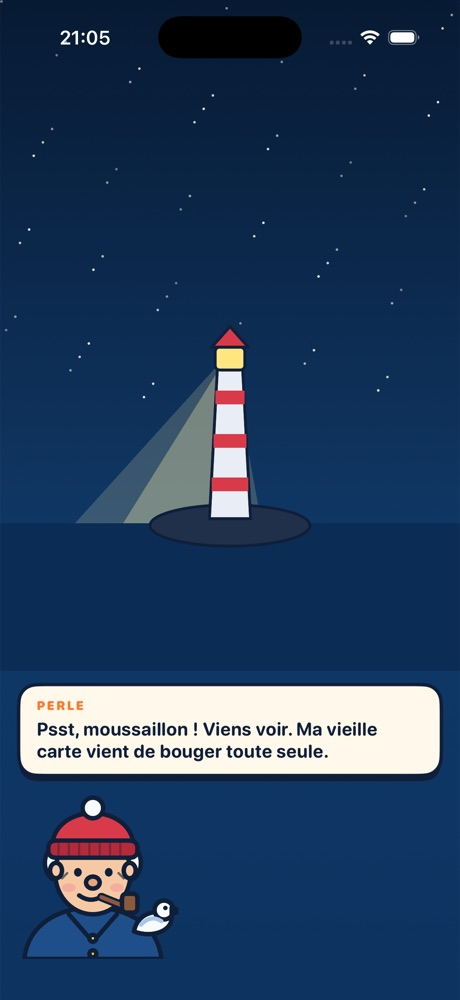
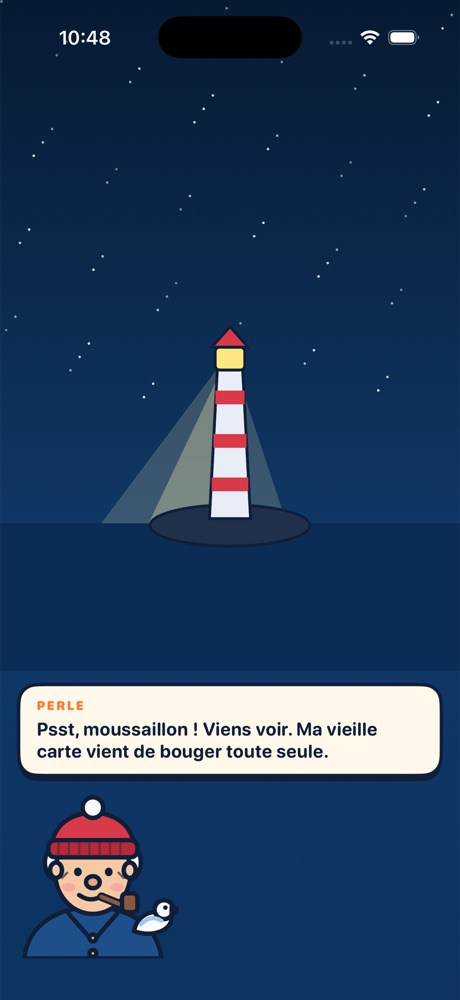
EN/FR screenshots per language, French non-breaking spaces
Claude-Session: https://claude.ai/code/session_016LGbWuNTySZQz7d5RebnQ1

diff --git a/index.html b/index.html
@@ -39,7 +39,7 @@
       <h2><span class="en">Consulting</span><span class="fr">Conseil</span></h2>
       <p class="prose">
         <span class="en">Catgrep is the consulting company of <a href="https://www.linkedin.com/in/paulrenson/">Paul Renson</a>. Today Paul is Head of Engineering &amp; Data at <a href="https://www.sortlist.com">Sortlist</a>, where he helps a team of engineers ship product, keep the data honest and spend their days arguing politely with AI agents. Before that: a decade of writing actual code (iOS, full stack, one co-founded startup), which he still does whenever nobody is watching.</span>
-        <span class="fr">Catgrep, c'est la société de conseil de <a href="https://www.linkedin.com/in/paulrenson/">Paul Renson</a>. Aujourd'hui, Paul est Head of Engineering &amp; Data chez <a href="https://www.sortlist.be">Sortlist</a>, où il aide une équipe d'ingénieurs à livrer du produit, à garder des données honnêtes et à passer leurs journées à discuter poliment avec des agents IA. Avant ça : une dizaine d'années à écrire du vrai code (iOS, full stack, une startup cofondée), ce qu'il fait encore dès que personne ne regarde.</span>
+        <span class="fr">Catgrep, c'est la société de conseil de <a href="https://www.linkedin.com/in/paulrenson/">Paul Renson</a>. Aujourd'hui, Paul est Head of Engineering &amp; Data chez <a href="https://www.sortlist.be">Sortlist</a>, où il aide une équipe d'ingénieurs à livrer du produit, à garder des données honnêtes et à passer leurs journées à discuter poliment avec des agents IA. Avant ça&nbsp;: une dizaine d'années à écrire du vrai code (iOS, full stack, une startup cofondée), ce qu'il fait encore dès que personne ne regarde.</span>
       </p>
       <div class="cards">
         <div class="card">
@@ -57,7 +57,7 @@
       </div>
       <p class="prose">
         <span class="en">About the name: yes, <code>cat file | grep pattern</code> is a useless use of cat. <code>grep pattern file</code> does the same job. We know. We kept the cat.</span>
-        <span class="fr">Pour le nom : oui, <code>cat fichier | grep motif</code> est un usage inutile de cat. <code>grep motif fichier</code> fait la même chose. On sait. On a gardé le chat.</span>
+        <span class="fr">Pour le nom&nbsp;: oui, <code>cat fichier | grep motif</code> est un usage inutile de cat. <code>grep motif fichier</code> fait la même chose. On sait. On a gardé le chat.</span>
       </p>
     </section>
 
@@ -83,7 +83,7 @@
     <section id="contact">
       <h2>Contact</h2>
       <p>
-        <span class="en">Project, question or just want to say hi: </span><span class="fr">Un projet, une question ou juste envie de dire bonjour : </span><a href="mailto:hello@catgrep.be">hello@catgrep.be</a>
+        <span class="en">Project, question or just want to say hi: </span><span class="fr">Un projet, une question ou juste envie de dire bonjour&nbsp;: </span><a href="mailto:hello@catgrep.be">hello@catgrep.be</a>
       </p>
     </section>
   </main>

diff --git a/tailwind/support/index.html b/tailwind/support/index.html
@@ -25,16 +25,16 @@
     <div class="prose">
       <h1><span class="en">Tailwind Support</span><span class="fr">Aide Tailwind</span></h1>
       <p>
-        <span class="en">Stuck on a sandbank? Write to </span><span class="fr">Échoué sur un banc de sable ? Écris à </span><a href="mailto:support@catgrep.be">support@catgrep.be</a><span class="en">. A real human answers, usually within a few days.</span><span class="fr">. Un vrai humain répond, en général en quelques jours.</span>
+        <span class="en">Stuck on a sandbank? Write to </span><span class="fr">Échoué sur un banc de sable&nbsp;? Écris à </span><a href="mailto:support@catgrep.be">support@catgrep.be</a><span class="en">. A real human answers, usually within a few days.</span><span class="fr">. Un vrai humain répond, en général en quelques jours.</span>
       </p>
       <dl class="faq">
-        <dt><span class="en">How do I restore my purchase?</span><span class="fr">Comment restaurer mon achat ?</span></dt>
+        <dt><span class="en">How do I restore my purchase?</span><span class="fr">Comment restaurer mon achat&nbsp;?</span></dt>
         <dd><span class="en">Settings &gt; Restore purchases. Use the same Apple ID you bought Tailwind with.</span><span class="fr">Réglages &gt; Restaurer mes achats. Utilise le même identifiant Apple que pour ton achat dans Tailwind.</span></dd>
-        <dt><span class="en">Is my progress saved across devices?</span><span class="fr">Ma progression est-elle synchronisée entre mes appareils ?</span></dt>
+        <dt><span class="en">Is my progress saved across devices?</span><span class="fr">Ma progression est-elle synchronisée entre mes appareils&nbsp;?</span></dt>
         <dd><span class="en">Yes, through your iCloud, as long as you are signed in with the same Apple ID on each device.</span><span class="fr">Oui, via ton iCloud, tant que tu utilises le même identifiant Apple sur chaque appareil.</span></dd>
-        <dt><span class="en">How do I change the language?</span><span class="fr">Comment changer de langue ?</span></dt>
+        <dt><span class="en">How do I change the language?</span><span class="fr">Comment changer de langue&nbsp;?</span></dt>
         <dd><span class="en">Settings &gt; Language.</span><span class="fr">Réglages &gt; Langue.</span></dd>
-        <dt><span class="en">How do I turn the sound off?</span><span class="fr">Comment couper le son ?</span></dt>
+        <dt><span class="en">How do I turn the sound off?</span><span class="fr">Comment couper le son&nbsp;?</span></dt>
         <dd><span class="en">Settings &gt; Sound.</span><span class="fr">Réglages &gt; Son.</span></dd>
       </dl>
       <p><a href="../privacy/"><span class="en">Privacy policy</span><span class="fr">Politique de confidentialité</span></a></p>

diff --git a/tailwind/index.html b/tailwind/index.html
@@ -43,16 +43,19 @@
       <div class="shots">
         <img class="fr" src="../assets/race-fr.jpg" alt="Une course au Lagon des tortues" loading="lazy">
         <img class="en" src="../assets/race-en.jpg" alt="A race in Spoon Bay" loading="lazy">
-        <img src="../assets/harbor-fr.jpg" alt="Harbor menu" loading="lazy">
-        <img src="../assets/regatta-fr.jpg" alt="Regatta card" loading="lazy">
-        <img src="../assets/discovery-fr.jpg" alt="Perle and the lighthouse" loading="lazy">
+        <img class="fr" src="../assets/harbor-fr.jpg" alt="Le port, menu principal" loading="lazy">
+        <img class="en" src="../assets/harbor-en.jpg" alt="The harbor, main menu" loading="lazy">
+        <img class="fr" src="../assets/regatta-fr.jpg" alt="La régate du Grand Archipel" loading="lazy">
+        <img class="en" src="../assets/regatta-en.jpg" alt="The Grand Archipelago regatta" loading="lazy">
+        <img class="fr" src="../assets/discovery-fr.jpg" alt="Perle et le phare" loading="lazy">
+        <img class="en" src="../assets/discovery-en.jpg" alt="Perle and the lighthouse" loading="lazy">
       </div>
     </section>
 
     <section>
       <h2><span class="en">What's on board</span><span class="fr">À bord</span></h2>
       <ul class="ticks">
-        <li><span class="en">Short races that reward planning more than luck: your dice stay in hand, you choose when to play them.</span><span class="fr">Des courses courtes où la stratégie compte plus que la chance : tes dés restent en main, c'est toi qui choisis quand les jouer.</span></li>
+        <li><span class="en">Short races that reward planning more than luck: your dice stay in hand, you choose when to play them.</span><span class="fr">Des courses courtes où la stratégie compte plus que la chance&nbsp;: tes dés restent en main, c'est toi qui choisis quand les jouer.</span></li>
         <li><span class="en">Regattas told like chapters, with Perle the lighthouse keeper as your guide and Admiral Corbeau's lieutenants waiting at sea.</span><span class="fr">Des régates racontées comme des chapitres, avec Perle la gardienne de phare pour guide et les lieutenants de l'Amiral Corbeau qui t'attendent au large.</span></li>
         <li><span class="en">Dolphins, turtles, whales, jellyfish, storms and night crossings. The sea is rarely on your side.</span><span class="fr">Dauphins, tortues, baleines, méduses, tempêtes et traversées de nuit. La mer est rarement de ton côté.</span></li>
         <li><span class="en">A whole fleet of boats with their own quirks, and a few secret ones for the curious.</span><span class="fr">Toute une flotte de bateaux avec leur caractère, et quelques secrets pour les curieux.</span></li>

diff --git a/tailwind/privacy/index.html b/tailwind/privacy/index.html
@@ -55,11 +55,11 @@
 
     <article class="prose fr">
       <h1>Politique de confidentialité de Tailwind</h1>
-      <p>Dernière mise à jour : 16 octobre 2026.</p>
-      <p>En bref : Tailwind ne sait pas qui tu es, et on aimerait que ça reste comme ça.</p>
+      <p>Dernière mise à jour&nbsp;: 16 octobre 2026.</p>
+      <p>En bref&nbsp;: Tailwind ne sait pas qui tu es, et on aimerait que ça reste comme ça.</p>
 
       <h2>Qui sommes-nous</h2>
-      <p>Tailwind est édité par CATGREP SRL, Boulevard du Roi Albert II 4, 1000 Bruxelles, Belgique, numéro BCE BE 0739.978.158. Contact : <a href="mailto:privacy@catgrep.be">privacy@catgrep.be</a>.</p>
+      <p>Tailwind est édité par CATGREP SRL, Boulevard du Roi Albert II 4, 1000 Bruxelles, Belgique, numéro BCE BE 0739.978.158. Contact&nbsp;: <a href="mailto:privacy@catgrep.be">privacy@catgrep.be</a>.</p>
 
       <h2>Ce qu'on ne collecte pas</h2>
       <p>Pas de compte, pas de nom, pas d'adresse e-mail, pas de localisation, pas de contacts, pas de photos. Pas de publicité, pas de pistage entre apps ou sites, rien de vendu ni partagé avec des courtiers en données.</p>
@@ -68,7 +68,7 @@
       <p>Ta progression est enregistrée sur ton appareil et synchronisée via ton propre compte iCloud (stockage clé-valeur iCloud d'Apple), pour te suivre sur tes autres appareils. Catgrep n'y a pas accès.</p>
 
       <h2>Statistiques anonymes</h2>
-      <p>Pour comprendre comment le jeu est joué et l'améliorer, Tailwind envoie des événements d'usage anonymes à TelemetryDeck, un service d'analytique respectueux de la vie privée basé en Allemagne (UE). Exemples : prologue terminé, course terminée (parcours, difficulté, place), écran d'achat affiché, achat effectué ou restauré. Ces événements portent un identifiant aléatoire et haché, qui n'est pas lié à ton identité et ne sert pas au pistage. On ne regarde que des statistiques agrégées.</p>
+      <p>Pour comprendre comment le jeu est joué et l'améliorer, Tailwind envoie des événements d'usage anonymes à TelemetryDeck, un service d'analytique respectueux de la vie privée basé en Allemagne (UE). Exemples&nbsp;: prologue terminé, course terminée (parcours, difficulté, place), écran d'achat affiché, achat effectué ou restauré. Ces événements portent un identifiant aléatoire et haché, qui n'est pas lié à ton identité et ne sert pas au pistage. On ne regarde que des statistiques agrégées.</p>
 
       <h2>Achats</h2>
       <p>Les achats intégrés sont entièrement traités par Apple. On ne reçoit jamais tes données de paiement, seulement la confirmation que l'achat existe.</p>
